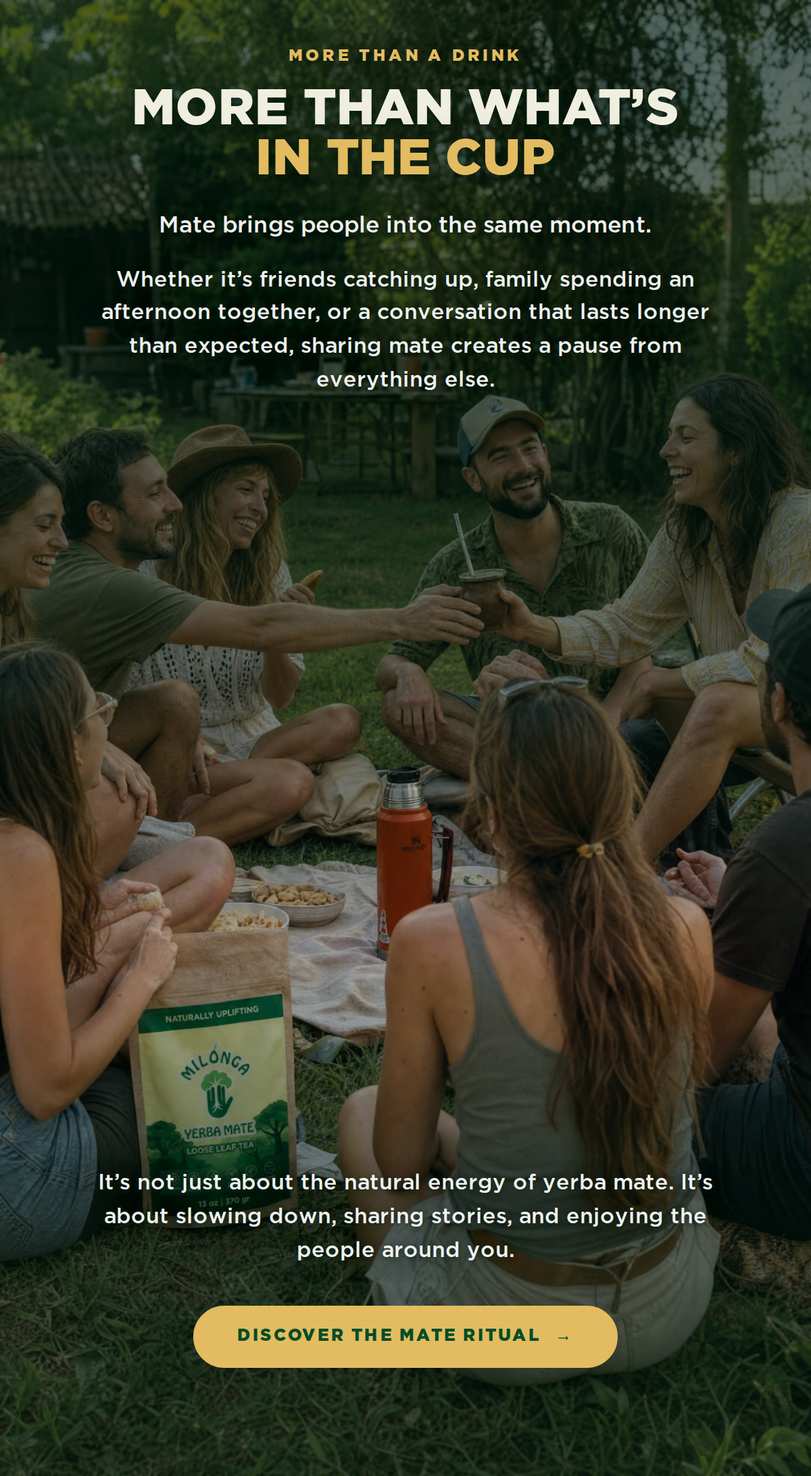
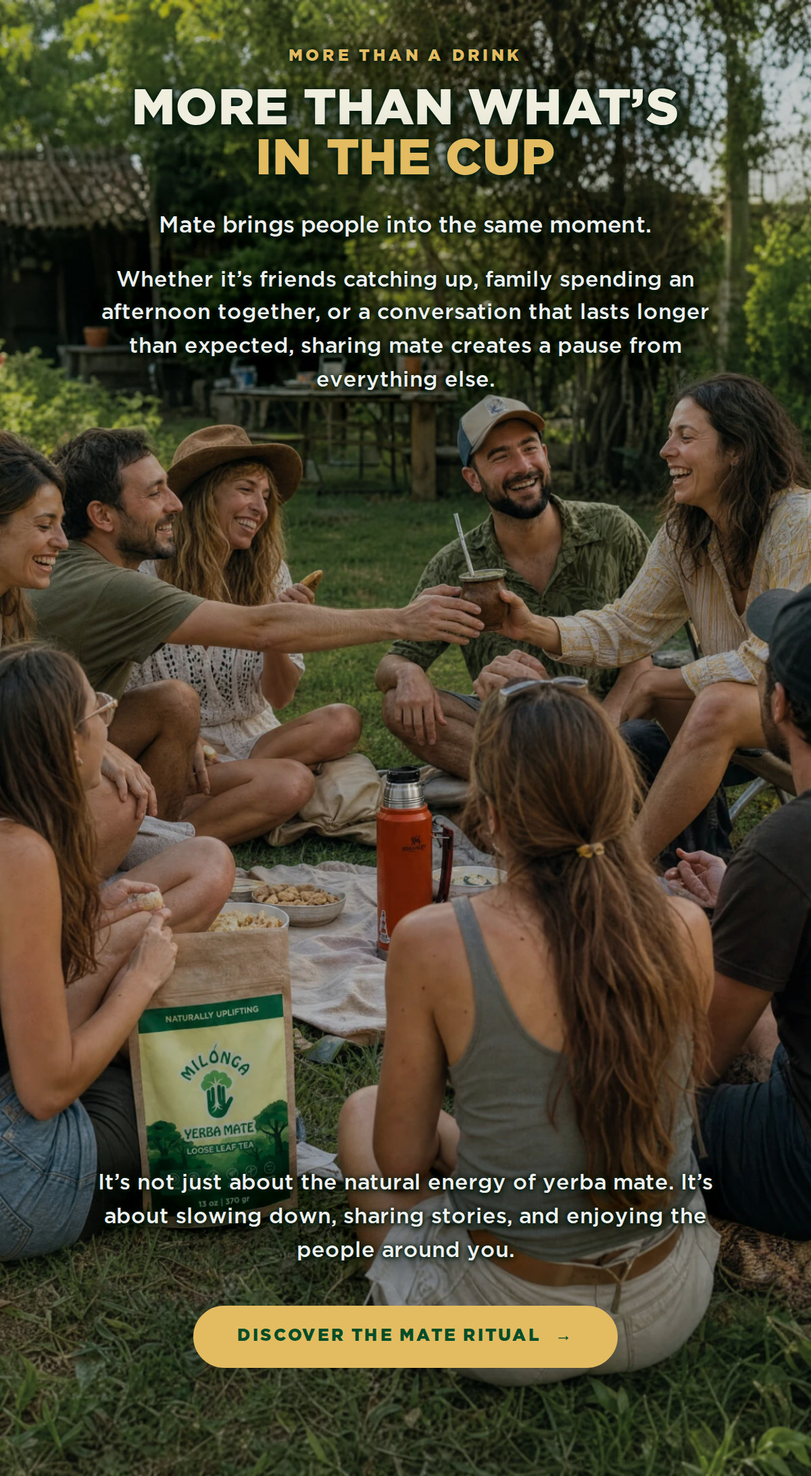
Take the scrim off section 2 and let the type carry its own shadow
Section 2's photograph is the point of that section and the scrim was burying
it — a flat dark wash over the whole frame to protect a few hundred pixels of
type. Scrim drops from 1 to 0.26 and the golden hour, the faces and the pack
all come back.

The type is held by its own shadow instead, and T9Story now does that swap by
itself: below 0.7 scrim it switches both shadows to a tight, dense halo that
hugs each letter — a 3px spread at 0.95 in front of the existing soft layers —
rather than a soft glow that only works because the picture behind it was
already dimmed. Without that, turning a scrim down quietly makes the copy
unreadable, which is the failure this guards against.

This is the shadow-not-scrim rule made automatic rather than remembered.

Section 3 sits at 0.45 and so picks it up too, which brightens its products;
the clean variant's harness is aligned to the same 0.45 so the two exports
match. Section 1 is untouched at full scrim — its copy is longer and sits on
open sky, which is the one place the wash is still earning its keep.

Claude-Session: https://claude.ai/code/session_01NhEtXPnfeCJfN73SqBkUZ5

diff --git a/email-ds/src/components/HeroTemplates.tsx b/email-ds/src/components/HeroTemplates.tsx
@@ -1085,8 +1085,18 @@ export function T9Story({
   const scrimCss = scrimAt === 'middle'
     ? `linear-gradient(to bottom, rgba(0,26,13,${k(0.10)}) 0%, rgba(0,26,13,${k(0.34)}) 20%, rgba(0,26,13,${k(0.56)}) 38%, rgba(0,26,13,${k(0.58)}) 66%, rgba(0,26,13,${k(0.30)}) 84%, rgba(0,26,13,${k(0.12)}) 100%)`
     : `linear-gradient(to bottom, rgba(0,26,13,${k(0.62)}) 0%, rgba(0,26,13,${k(0.56)}) 30%, rgba(0,26,13,${k(0.40)}) 48%, rgba(0,26,13,${k(0.10)}) 64%, ${tail})`;
-  const shadow = '0 2px 6px rgba(0,26,13,0.62), 0 4px 22px rgba(0,26,13,0.55)';
-  const softShadow = '0 1px 4px rgba(0,26,13,0.72), 0 3px 16px rgba(0,26,13,0.55)';
+  // SHADOW, NOT SCRIM. A scrim dims the whole photograph to protect a few
+  // hundred pixels of type; a shadow sits behind the letters alone. So as the
+  // scrim comes down, the type's own shadow automatically comes up — a tight,
+  // dense halo that hugs each letter instead of a wash over the picture.
+  // Without this, turning the scrim down quietly makes the copy unreadable.
+  const bare = scrim < 0.7;
+  const shadow = bare
+    ? '0 0 3px rgba(0,26,13,0.95), 0 1px 3px rgba(0,26,13,0.9), 0 2px 10px rgba(0,26,13,0.8), 0 6px 28px rgba(0,26,13,0.6)'
+    : '0 2px 6px rgba(0,26,13,0.62), 0 4px 22px rgba(0,26,13,0.55)';
+  const softShadow = bare
+    ? '0 0 3px rgba(0,26,13,0.95), 0 1px 3px rgba(0,26,13,0.92), 0 2px 9px rgba(0,26,13,0.78), 0 5px 22px rgba(0,26,13,0.55)'
+    : '0 1px 4px rgba(0,26,13,0.72), 0 3px 16px rgba(0,26,13,0.55)';
 
   return (
     <>

diff --git a/email-ds/refine/mate-s3-clean.html b/email-ds/refine/mate-s3-clean.html
@@ -14,7 +14,7 @@ const props = {
   lead: 'Milonga takes the spirit of mate and reimagines it for today.',
   paras: ['We keep what makes mate special — its natural energy, connection, and culture — and bring it into innovative products made for modern moments. From sparkling yerba mate to our Mate Latte, Milonga is a new way to experience an old tradition.'],
   cta: { label: 'Explore Milonga', href: '#', arrow: true },
-  ctaInline: true, scrimAt: 'middle', size: 35, measure: 440, leadMeasure: 345,
+  ctaInline: true, scrimAt: 'middle', scrim: 0.45, size: 35, measure: 440, leadMeasure: 345,
 };
 ReactDOM.createRoot(document.getElementById('root')).render(
   h('div',{style:{width:600,margin:'0 auto'}},

diff --git a/email-ds/emails/mate-ritual.jsx b/email-ds/emails/mate-ritual.jsx
@@ -73,6 +73,10 @@ function MateRitual() {
       size: 37,
       top: 34,
       measure: 460,
+      // The photograph is the point of this section, so it is barely touched.
+      // The type is held by its own shadow instead, which T9Story tightens
+      // automatically once the scrim drops below 0.7.
+      scrim: 0.26,
     }),
 
     // ── 3 · THE CLOSE ─────────────────────────────────────────────────────
